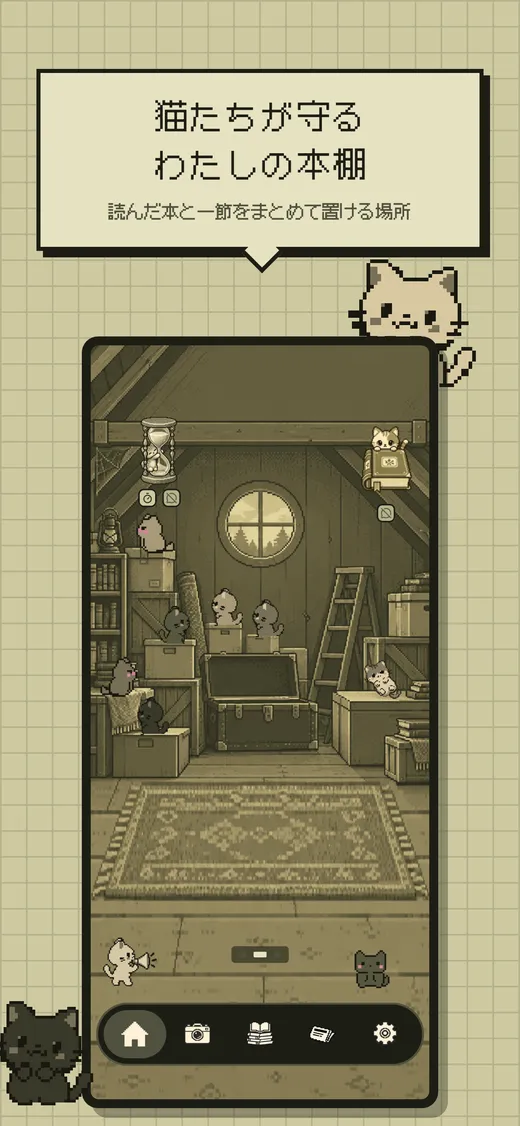
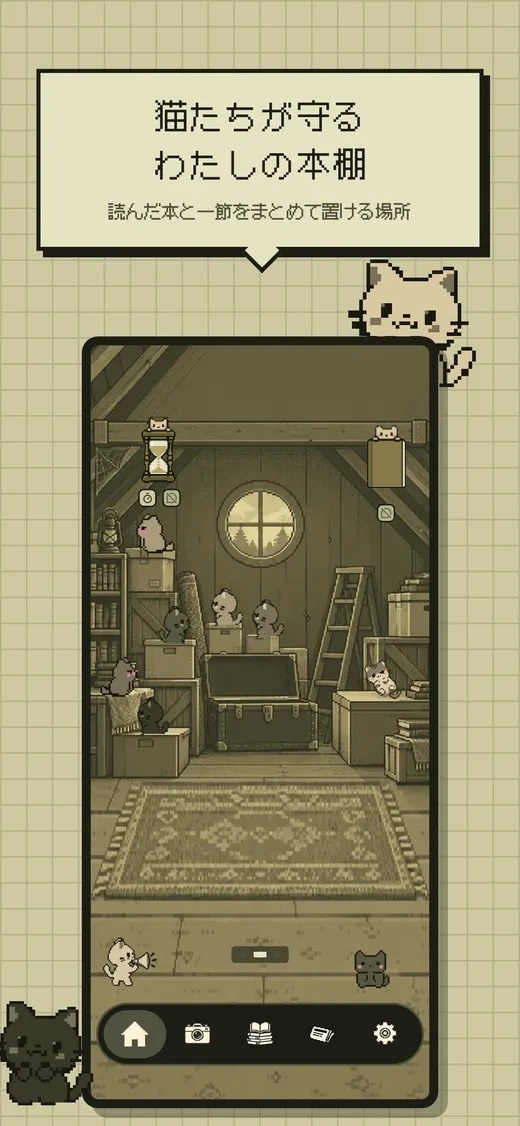
feat: 냥냥서가 소개 페이지를 새 앱 그림·이름에 맞게 갱신
- 앱 아이콘을 현재 앱 아이콘(참깨냥 책 더미)으로 교체
- 홈 화면 스크린샷·공유 미리보기의 모래시계·책 추가 아이콘을 새 그림으로 교체 (한·영·일)
- 타이머 스크린샷의 알림 아이콘을 앱 알림 그림으로 교체하고 일본어판 알림 카드를 한국어판 틀로 다시 구성
- 앱 이름을 스토어 등록 이름에 통일: 일본어 にゃんにゃん本棚, 영어 Meow Shelf

Changed region(s): [[0.6769, 0.373, 0.8, 0.4352], [0.2462, 0.373, 0.3385, 0.4352]]

diff --git a/ja/nyangnyang/index.html b/ja/nyangnyang/index.html
@@ -3,7 +3,7 @@
 <head>
 <meta charset="utf-8">
 <meta name="viewport" content="width=device-width, initial-scale=1, viewport-fit=cover">
-<title>Nyangnyang Seoga — 本の一節の記録 · ニャンビット</title>
+<title>にゃんにゃん本棚 — 本の一節の記録 · ニャンビット</title>
 <meta name="description" content="今日読んだ一文を、残しておきませんか。本のページを写真に撮ると、文章がそのまま記録されます。">
 <link rel="canonical" href="https://nyangnyangbit.com/ja/nyangnyang/">
 <link rel="alternate" hreflang="ko" href="https://nyangnyangbit.com/nyangnyang/">
@@ -12,7 +12,7 @@
 <link rel="alternate" hreflang="x-default" href="https://nyangnyangbit.com/nyangnyang/">
 <meta property="og:type" content="website">
 <meta property="og:site_name" content="ニャンビット">
-<meta property="og:title" content="Nyangnyang Seoga — 本の一節の記録 · ニャンビット">
+<meta property="og:title" content="にゃんにゃん本棚 — 本の一節の記録 · ニャンビット">
 <meta property="og:description" content="今日読んだ一文を、残しておきませんか。本のページを写真に撮ると、文章がそのまま記録されます。">
 <meta property="og:url" content="https://nyangnyangbit.com/ja/nyangnyang/">
 <meta property="og:locale" content="ja_JP">
@@ -36,7 +36,7 @@
 <main class="proj" style="--poster:#efe0c2">
   <aside class="side">
     <div class="head">
-    <div class="titlebar"><img class="app-icon" src="/assets/nyangnyang.png" alt="" width="64" height="64"><h1 class="title">Nyangnyang Seoga</h1></div>
+    <div class="titlebar"><img class="app-icon" src="/assets/nyangnyang.png" alt="" width="64" height="64"><h1 class="title">にゃんにゃん本棚</h1></div>
     <p class="kind">本の一節の記録</p>
     <p class="lead">今日読んだ一文を、残しておきませんか。本のページを写真に撮ると、文章がそのまま記録されます。</p>
     <p class="note">アプリは韓国語・英語・日本語に対応しています。</p>

diff --git a/ja/about/index.html b/ja/about/index.html
@@ -39,9 +39,9 @@
     <p><a href="mailto:sokurihj@gmail.com">sokurihj@gmail.com</a></p>
     <h2>SNS</h2><p class="links"><a href="https://www.threads.com/@nyangbit.app">Threads</a><a href="https://www.instagram.com/nyangbit.app/">Instagram</a></p>
     <h2>アプリ</h2>
-    <div class="pills"><a class="pill" href="/ja/nyangnyang/">Nyangnyang Seoga</a><a class="pill" href="/ja/moanyang/">モアニャン</a><a class="pill" href="/ja/nyancorder/">ニャンコーダー</a></div>
+    <div class="pills"><a class="pill" href="/ja/nyangnyang/">にゃんにゃん本棚</a><a class="pill" href="/ja/moanyang/">モアニャン</a><a class="pill" href="/ja/nyancorder/">ニャンコーダー</a></div>
     <h2>プライバシーポリシー</h2>
-    <p class="legal"><a href="/nyangnyang-site/ja/privacy.html">Nyangnyang Seoga</a><a href="/moanyang-site/ja/privacy.html">モアニャン</a><a href="/ja/nyancorder/privacy.html">ニャンコーダー</a></p>
+    <p class="legal"><a href="/nyangnyang-site/ja/privacy.html">にゃんにゃん本棚</a><a href="/moanyang-site/ja/privacy.html">モアニャン</a><a href="/ja/nyancorder/privacy.html">ニャンコーダー</a></p>
   </aside>
   <div class="main">
     <p class="big">続けにくいことを、<br>ねこと一緒に。</p>
@@ -52,7 +52,7 @@
     <a class="card" href="/ja/nyangnyang/" style="--rot:-2deg; --poster:#efe0c2">
       <span class="tape"></span>
       <span class="win"><img src="/assets/nyangnyang.png" alt="" width="200" height="200"></span>
-      <span class="lab"><b>Nyangnyang Seoga</b>本の一節の記録</span>
+      <span class="lab"><b>にゃんにゃん本棚</b>本の一節の記録</span>
     </a>
     <a class="card" href="/ja/moanyang/" style="--rot:1.6deg; --poster:#ece8de">
       <span class="tape"></span>

diff --git a/en/nyangnyang/index.html b/en/nyangnyang/index.html
@@ -3,7 +3,7 @@
 <head>
 <meta charset="utf-8">
 <meta name="viewport" content="width=device-width, initial-scale=1, viewport-fit=cover">
-<title>Nyangnyang Seoga — Book passage log · NyangBit</title>
+<title>Meow Shelf — Book passage log · NyangBit</title>
 <meta name="description" content="Found a line worth keeping? Snap the page and the passage is saved as text.">
 <link rel="canonical" href="https://nyangnyangbit.com/en/nyangnyang/">
 <link rel="alternate" hreflang="ko" href="https://nyangnyangbit.com/nyangnyang/">
@@ -12,7 +12,7 @@
 <link rel="alternate" hreflang="x-default" href="https://nyangnyangbit.com/nyangnyang/">
 <meta property="og:type" content="website">
 <meta property="og:site_name" content="NyangBit">
-<meta property="og:title" content="Nyangnyang Seoga — Book passage log · NyangBit">
+<meta property="og:title" content="Meow Shelf — Book passage log · NyangBit">
 <meta property="og:description" content="Found a line worth keeping? Snap the page and the passage is saved as text.">
 <meta property="og:url" content="https://nyangnyangbit.com/en/nyangnyang/">
 <meta property="og:locale" content="en_US">
@@ -36,7 +36,7 @@
 <main class="proj" style="--poster:#efe0c2">
   <aside class="side">
     <div class="head">
-    <div class="titlebar"><img class="app-icon" src="/assets/nyangnyang.png" alt="" width="64" height="64"><h1 class="title">Nyangnyang Seoga</h1></div>
+    <div class="titlebar"><img class="app-icon" src="/assets/nyangnyang.png" alt="" width="64" height="64"><h1 class="title">Meow Shelf</h1></div>
     <p class="kind">Book passage log</p>
     <p class="lead">Found a line worth keeping? Snap the page and the passage is saved as text.</p>
     <p class="note">The app is available in Korean, English and Japanese.</p>

diff --git a/en/about/index.html b/en/about/index.html
@@ -39,9 +39,9 @@
     <p><a href="mailto:sokurihj@gmail.com">sokurihj@gmail.com</a></p>
     <h2>Social</h2><p class="links"><a href="https://www.threads.com/@nyangbit.app">Threads</a><a href="https://www.instagram.com/nyangbit.app/">Instagram</a></p>
     <h2>Apps</h2>
-    <div class="pills"><a class="pill" href="/en/nyangnyang/">Nyangnyang Seoga</a><a class="pill" href="/en/moanyang/">MoaNyang</a><a class="pill" href="/en/nyancorder/">Nyancorder</a></div>
+    <div class="pills"><a class="pill" href="/en/nyangnyang/">Meow Shelf</a><a class="pill" href="/en/moanyang/">MoaNyang</a><a class="pill" href="/en/nyancorder/">Nyancorder</a></div>
     <h2>Privacy Policy</h2>
-    <p class="legal"><a href="/nyangnyang-site/en/privacy.html">Nyangnyang Seoga</a><a href="/moanyang-site/en/privacy.html">MoaNyang</a><a href="/en/nyancorder/privacy.html">Nyancorder</a></p>
+    <p class="legal"><a href="/nyangnyang-site/en/privacy.html">Meow Shelf</a><a href="/moanyang-site/en/privacy.html">MoaNyang</a><a href="/en/nyancorder/privacy.html">Nyancorder</a></p>
   </aside>
   <div class="main">
     <p class="big">Hard-to-keep habits,<br>kept with a cat.</p>
@@ -52,7 +52,7 @@
     <a class="card" href="/en/nyangnyang/" style="--rot:-2deg; --poster:#efe0c2">
       <span class="tape"></span>
       <span class="win"><img src="/assets/nyangnyang.png" alt="" width="200" height="200"></span>
-      <span class="lab"><b>Nyangnyang Seoga</b>Book passage log</span>
+      <span class="lab"><b>Meow Shelf</b>Book passage log</span>
     </a>
     <a class="card" href="/en/moanyang/" style="--rot:1.6deg; --poster:#ece8de">
       <span class="tape"></span>

diff --git a/style.css b/style.css
@@ -145,7 +145,7 @@ a.card:hover { transform: rotate(0deg) translateY(-4px); box-shadow: 0 12px 26px
 /* 제목 옆 앱 아이콘 — 큰 폴라로이드 대신 스토어에서 본 얼굴을 알아보게만 한다 */
 .titlebar { display: flex; align-items: center; gap: 16px; margin: 0 0 6px; }
 .titlebar .title { margin: 0; min-width: 0; overflow-wrap: anywhere; } /* 안전장치: 자리가 모자라면 옆 열로 넘치지 않고 줄을 바꾼다 */
-/* 영어·일본어 페이지의 제목은 라틴 글자(Nyangnyang Seoga)라 한글보다 훨씬 길다 — 아이콘을 뺀 왼쪽 열 폭(약 280px)에 한 단어가 들어가는 크기로 */
+/* 영어(Meow Shelf)·일본어(にゃんにゃん本棚) 페이지의 제목은 한글(냥냥서가)보다 길다 — 아이콘을 뺀 왼쪽 열 폭(약 280px)에 한 단어가 들어가는 크기로 */
 :lang(en) .titlebar .title, :lang(ja) .titlebar .title { font-size: clamp(34px, 4vw, 46px); }
 .app-icon { flex: none; width: 64px; height: 64px; border-radius: 22%; box-shadow: 0 4px 12px rgba(0, 0, 0, 0.14); }
 /* 앱 화면 — 테이프로 붙인 듯 아주 살짝 기울인다 */

diff --git a/ja/moanyang/index.html b/ja/moanyang/index.html
@@ -66,7 +66,7 @@
     <a class="card" href="/ja/nyangnyang/" style="--rot:-2deg; --poster:#efe0c2">
       <span class="tape"></span>
       <span class="win"><img src="/assets/nyangnyang.png" alt="" width="200" height="200"></span>
-      <span class="lab"><b>Nyangnyang Seoga</b>本の一節の記録</span>
+      <span class="lab"><b>にゃんにゃん本棚</b>本の一節の記録</span>
     </a>
     <a class="card" href="/ja/nyancorder/" style="--rot:-2deg; --poster:#f6dfe0">
       <span class="tape"></span>

diff --git a/ja/index.html b/ja/index.html
@@ -38,7 +38,7 @@
     <a class="card" href="/ja/nyangnyang/" style="--rot:-2deg; --poster:#efe0c2">
       <span class="tape"></span>
       <span class="win"><img src="/assets/nyangnyang.png" alt="" width="200" height="200"></span>
-      <span class="lab"><b>Nyangnyang Seoga</b>本の一節の記録</span>
+      <span class="lab"><b>にゃんにゃん本棚</b>本の一節の記録</span>
     </a>
     <a class="card" href="/ja/moanyang/" style="--rot:1.6deg; --poster:#ece8de">
       <span class="tape"></span>

diff --git a/ja/mureonyang/index.html b/ja/mureonyang/index.html
@@ -66,7 +66,7 @@
     <a class="card" href="/ja/nyangnyang/" style="--rot:-2deg; --poster:#efe0c2">
       <span class="tape"></span>
       <span class="win"><img src="/assets/nyangnyang.png" alt="" width="200" height="200"></span>
-      <span class="lab"><b>Nyangnyang Seoga</b>本の一節の記録</span>
+      <span class="lab"><b>にゃんにゃん本棚</b>本の一節の記録</span>
     </a>
     <a class="card" href="/ja/moanyang/" style="--rot:1.6deg; --poster:#ece8de">
       <span class="tape"></span>

diff --git a/ja/nyancorder/index.html b/ja/nyancorder/index.html
@@ -65,7 +65,7 @@
     <a class="card" href="/ja/nyangnyang/" style="--rot:-2deg; --poster:#efe0c2">
       <span class="tape"></span>
       <span class="win"><img src="/assets/nyangnyang.png" alt="" width="200" height="200"></span>
-      <span class="lab"><b>Nyangnyang Seoga</b>本の一節の記録</span>
+      <span class="lab"><b>にゃんにゃん本棚</b>本の一節の記録</span>
     </a>
     <a class="card" href="/ja/moanyang/" style="--rot:1.6deg; --poster:#ece8de">
       <span class="tape"></span>

diff --git a/en/moanyang/index.html b/en/moanyang/index.html
@@ -66,7 +66,7 @@
     <a class="card" href="/en/nyangnyang/" style="--rot:-2deg; --poster:#efe0c2">
       <span class="tape"></span>
       <span class="win"><img src="/assets/nyangnyang.png" alt="" width="200" height="200"></span>
-      <span class="lab"><b>Nyangnyang Seoga</b>Book passage log</span>
+      <span class="lab"><b>Meow Shelf</b>Book passage log</span>
     </a>
     <a class="card" href="/en/nyancorder/" style="--rot:-2deg; --poster:#f6dfe0">
       <span class="tape"></span>

diff --git a/en/index.html b/en/index.html
@@ -38,7 +38,7 @@
     <a class="card" href="/en/nyangnyang/" style="--rot:-2deg; --poster:#efe0c2">
       <span class="tape"></span>
       <span class="win"><img src="/assets/nyangnyang.png" alt="" width="200" height="200"></span>
-      <span class="lab"><b>Nyangnyang Seoga</b>Book passage log</span>
+      <span class="lab"><b>Meow Shelf</b>Book passage log</span>
     </a>
     <a class="card" href="/en/moanyang/" style="--rot:1.6deg; --poster:#ece8de">
       <span class="tape"></span>

diff --git a/en/mureonyang/index.html b/en/mureonyang/index.html
@@ -66,7 +66,7 @@
     <a class="card" href="/en/nyangnyang/" style="--rot:-2deg; --poster:#efe0c2">
       <span class="tape"></span>
       <span class="win"><img src="/assets/nyangnyang.png" alt="" width="200" height="200"></span>
-      <span class="lab"><b>Nyangnyang Seoga</b>Book passage log</span>
+      <span class="lab"><b>Meow Shelf</b>Book passage log</span>
     </a>
     <a class="card" href="/en/moanyang/" style="--rot:1.6deg; --poster:#ece8de">
       <span class="tape"></span>
